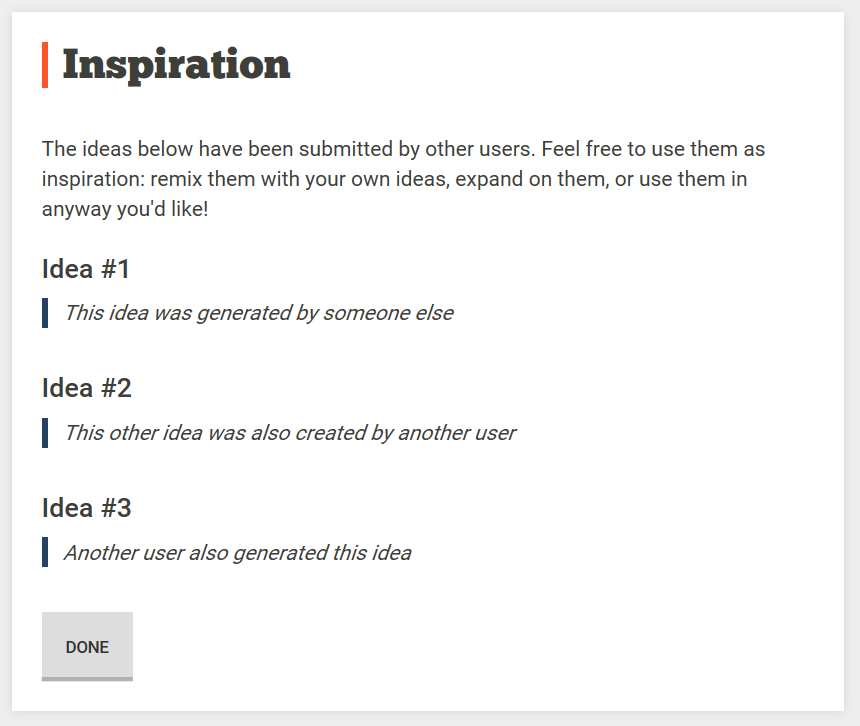
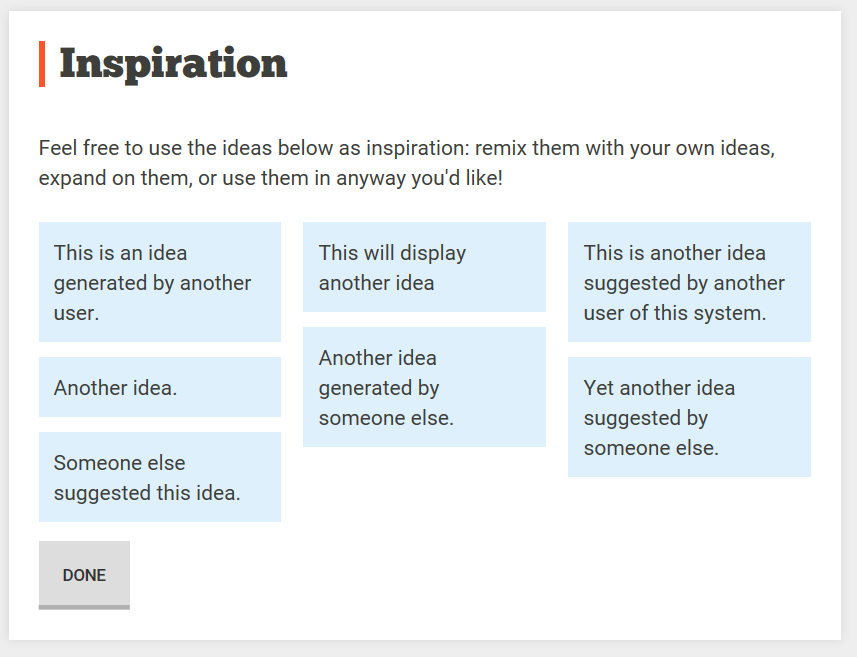
Update intro pages to match new inspiration panel

diff --git a/views/tasks/intro.html b/views/tasks/intro.html
@@ -36,7 +36,7 @@
 					<h3>Getting inspired</h3>
 
 					{{if userCondition == 2:}}
-						<p>If you run out of ideas, you can click the <strong>Get inspiration</strong> button. It will present you with 3 ideas developed by other users. When you're done, click the <strong>Close Idea</strong> button. See the image below: </p>
+						<p>If you run out of ideas, you can click the <strong>Get inspiration</strong> button. It will present you with 7 ideas developed by other users. When you're done, click the <strong>done</strong> button. See the image below: </p>
 
 						<img src="{{=URL('static', 'images/intro/c2-help.PNG')}}"/>
 
@@ -46,7 +46,7 @@
 						<img src="{{=URL('static', 'images/intro/c3-help.PNG')}}"/>
 
 					{{elif userCondition == 4:}}
-						<p>If you run out of ideas, you can click the <strong>Get inspiration</strong>. It will present you with two ideas developed by other users. The task asks you to rate how similar those two ideas are. When you're done, click the <strong>submit rating</strong> button. See the image below: </p>
+						<p>If you run out of ideas, you can click the <strong>Get inspiration</strong>. It will present you with 7 ideas developed by other users. The task asks you to choose, from the ideas in blue, the idea that is most similar to the seed (the one above), and then to rate how similar they are. Just click on the one that's more closely related. When you're done, click the <strong>submit rating</strong> button. See the image below: </p>
 
 						<img src="{{=URL('static', 'images/intro/c4-help.PNG')}}"/>
 
